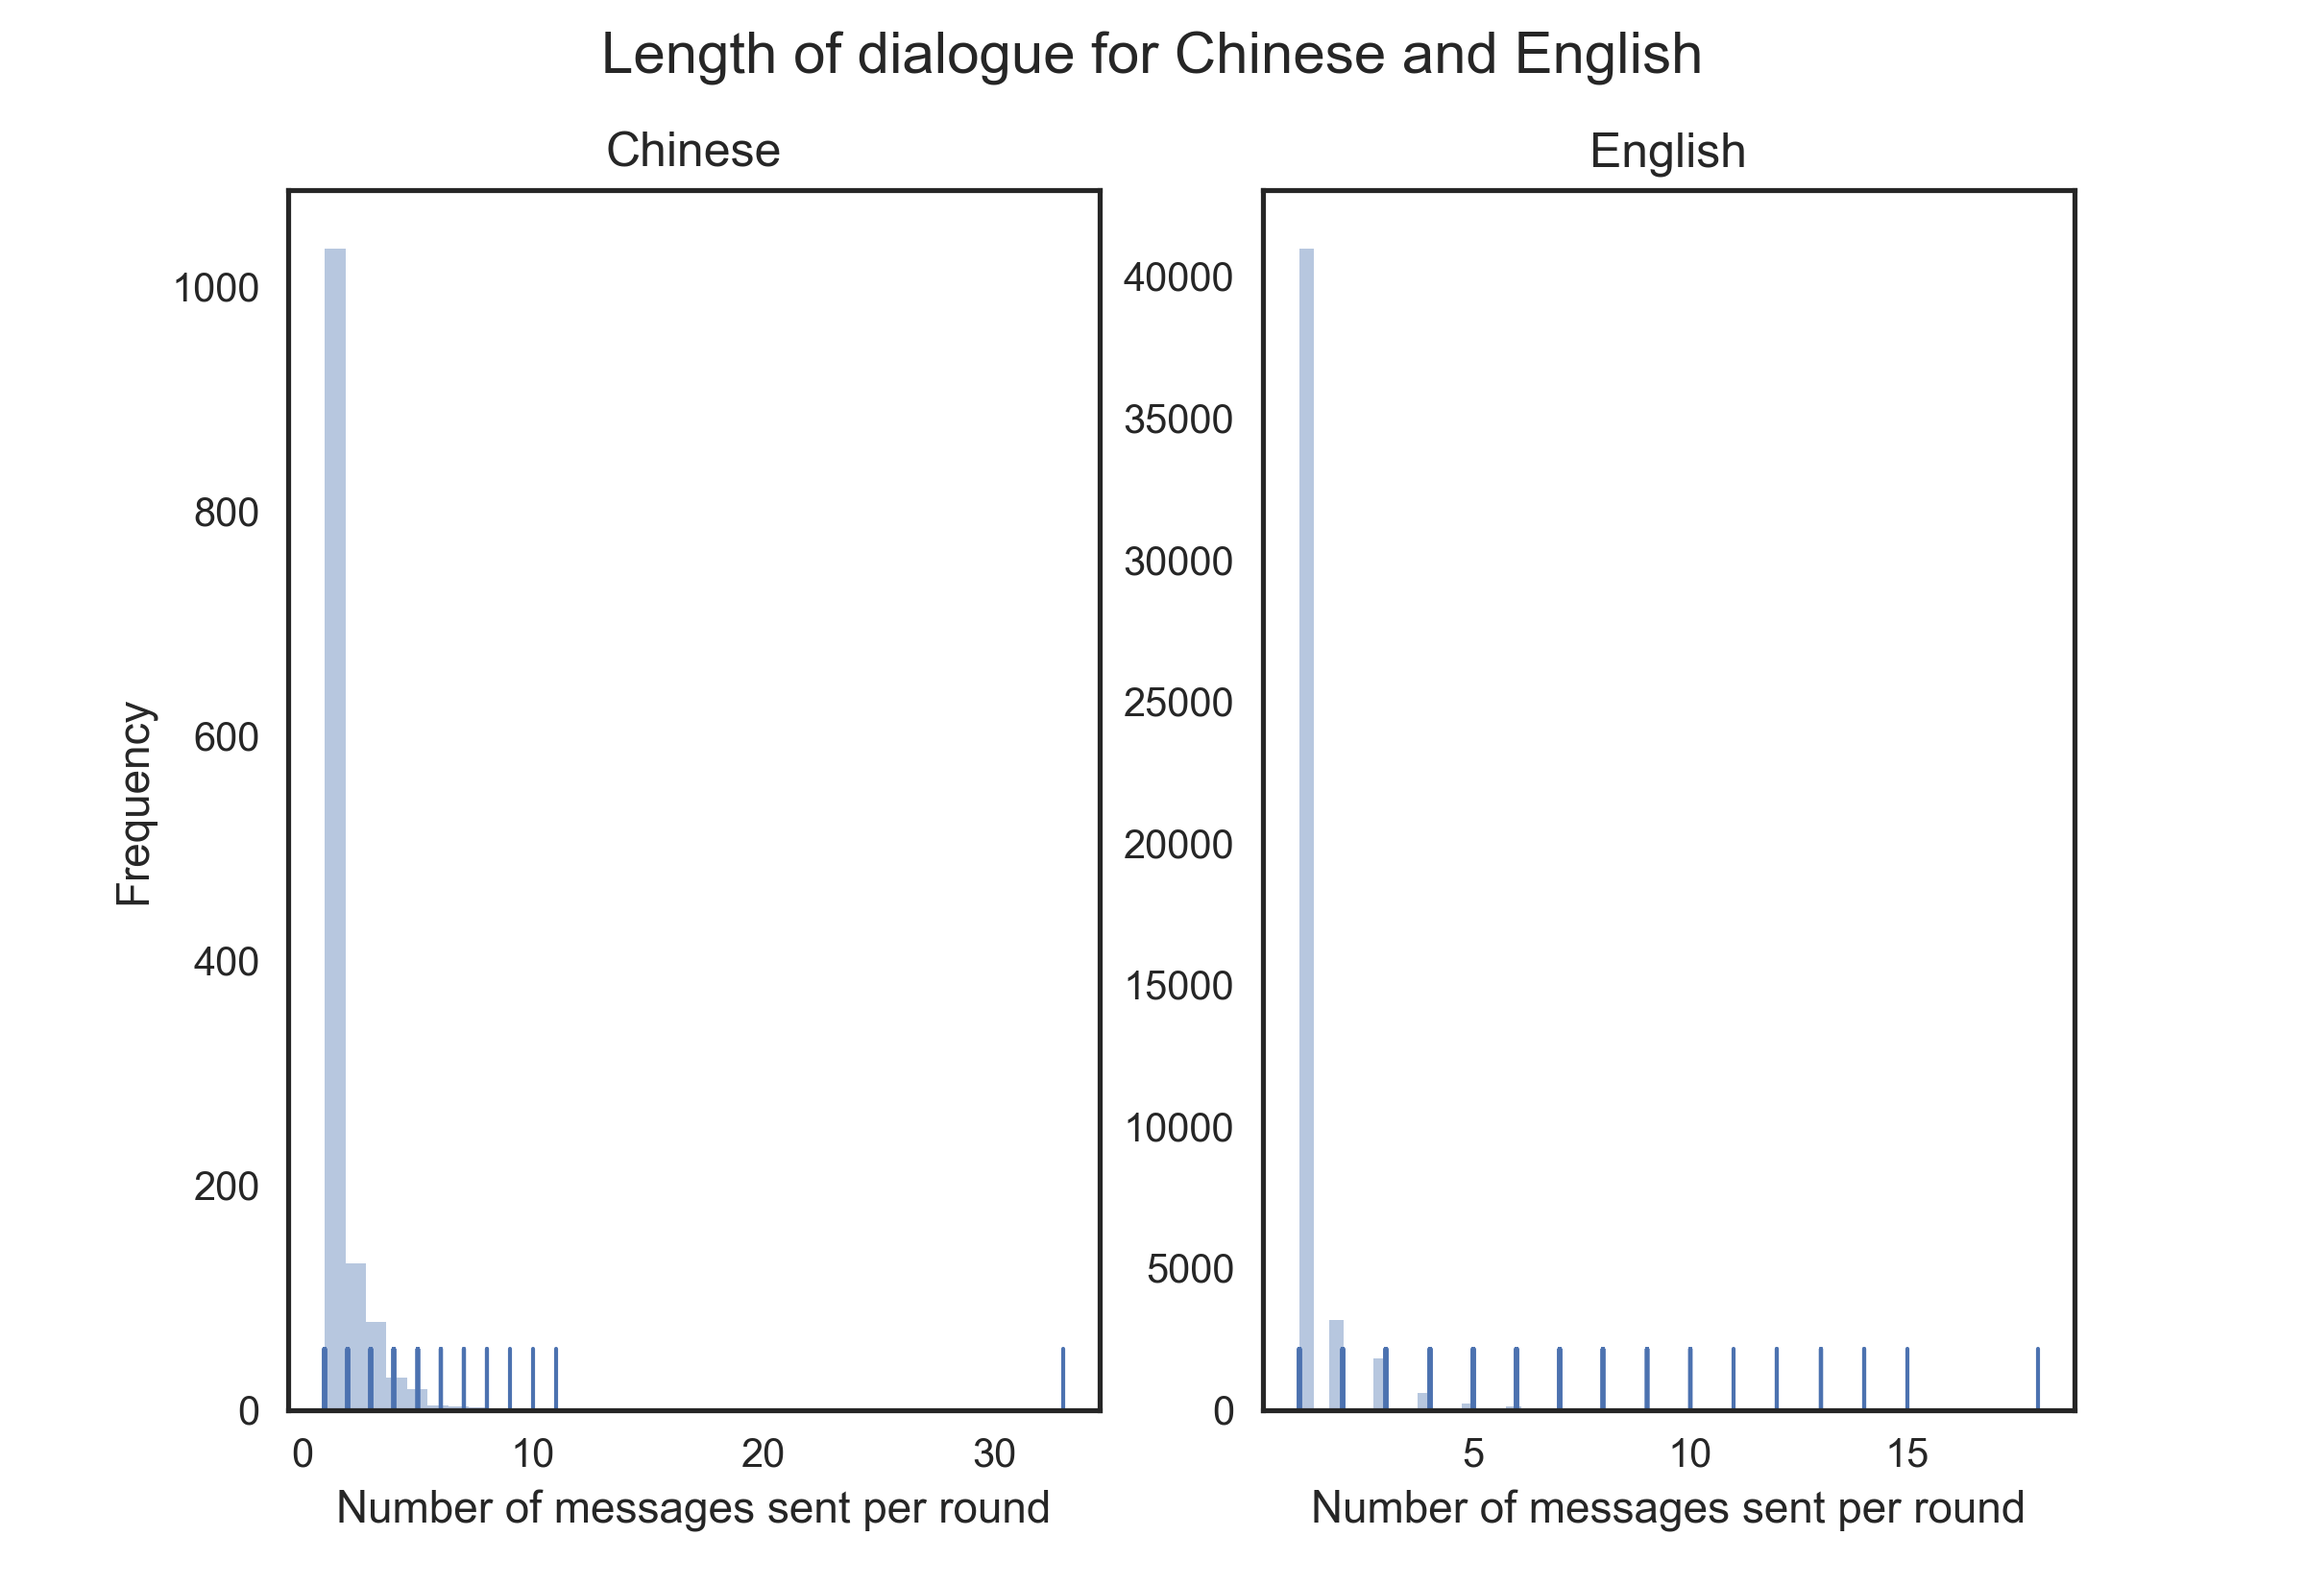
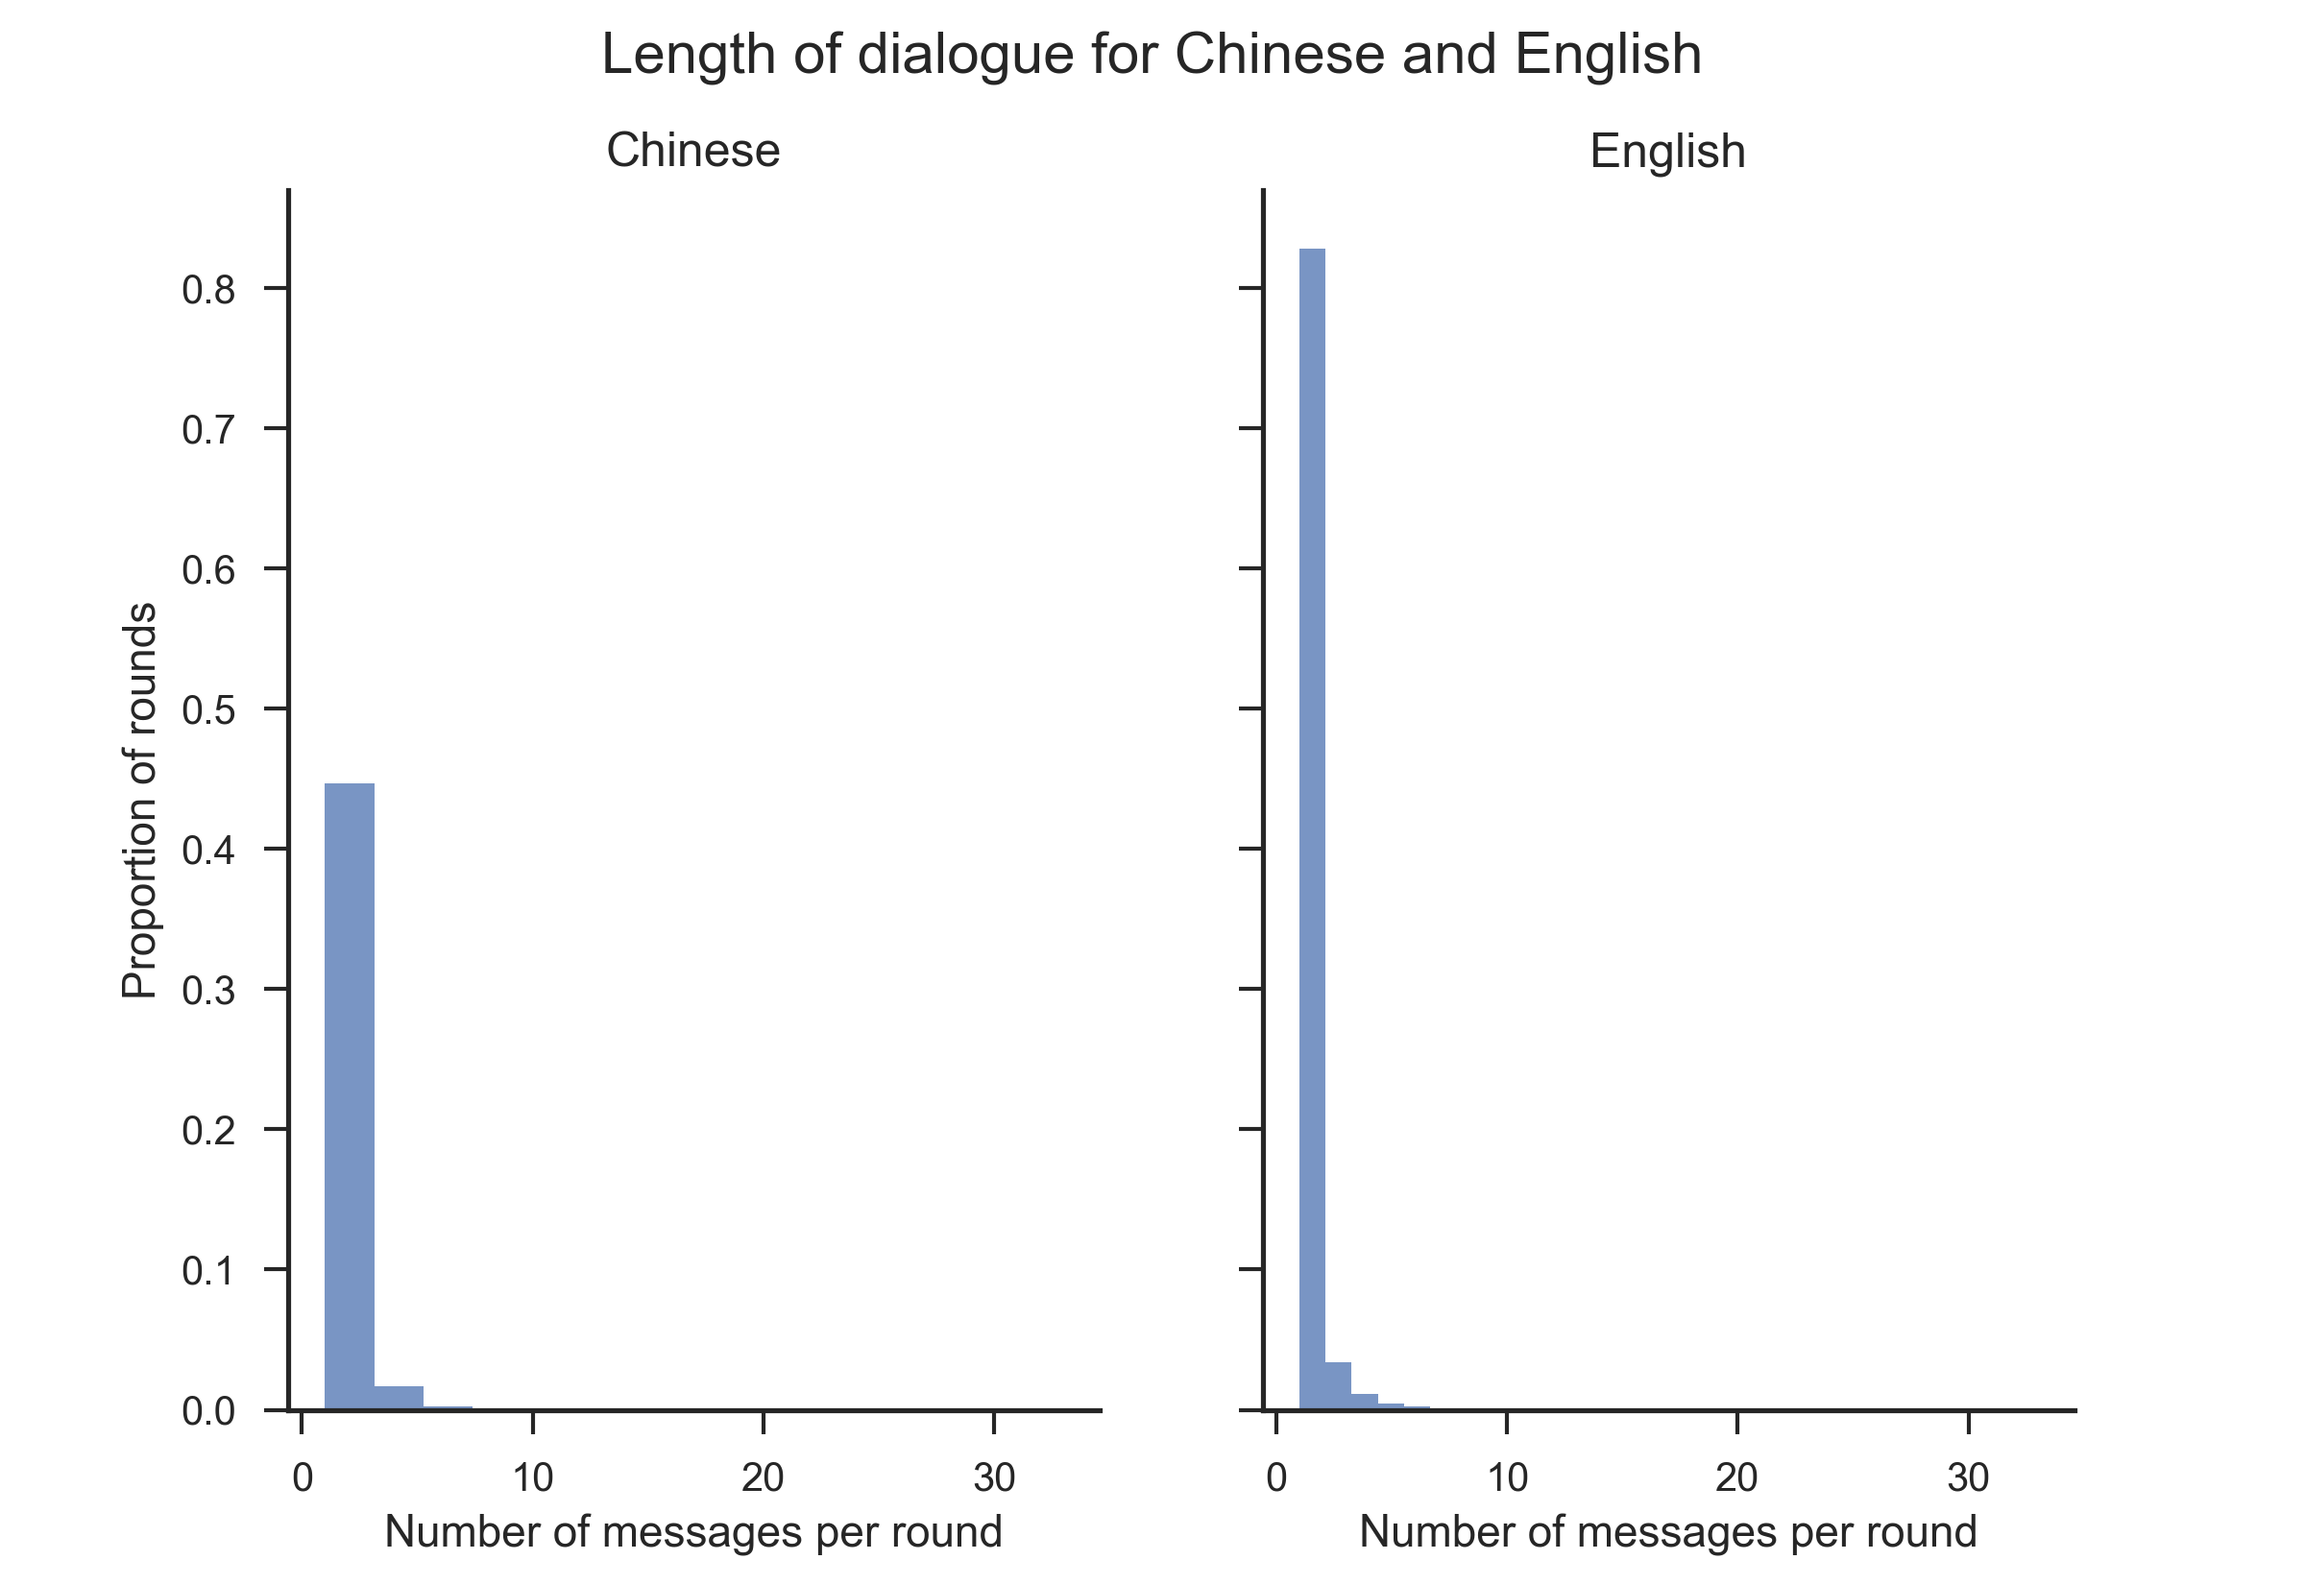
normalized histograms, other small changes

diff --git a/languageAnalysis/compare.py b/languageAnalysis/compare.py
@@ -1,6 +1,13 @@
 from utils import *
 import argparse
 
+def plot(a):
+    f_zh = 'data/{}_zh.csv'.format(a)
+    f_en = 'data/{}_en.csv'.format(a)
+    print 'Plotting for {}...'.format(a)
+    plot_csvs(f_zh, f_en, PLOTTYPE(a), 'plots/%s.png' % a,
+              ylabel=YLABEL(a), title=PLOTTITLE(a))
+
 def compare(attribute):
     '''
     Performs a full comparison across Chinese and English for a given
@@ -8,39 +15,33 @@ def compare(attribute):
     '''
     generate_csv(attribute, 'zh')
     generate_csv(attribute, 'en')
-    f_zh = 'data/{}_zh.csv'.format(attribute)
-    f_en = 'data/{}_en.csv'.format(attribute)
-    plot_csvs(f_zh, f_en, PLOTTYPE(attribute),
-                   'plots/%s_SEABORN.png' % attribute,
-                   ylabel=YLABEL(attribute),
-                   title=PLOTTITLE(attribute))
+    plot(attribute)
 
 if __name__ == '__main__':
     ATTRIBUTES = ['tokens', 'dialogue', 'superlative',
                   'comparative', 'negation', 'specificity']
     parser = argparse.ArgumentParser(description='compare Chinese and English')
-    parser.add_argument('-m', '--mode', help='compare, generate, or plot',
-                        default=None, choices=['C', 'G', 'P'])
-    parser.add_argument('-a', '--attribute', help='choose attributes', # nargs='+',
-                        default=None, choices=ATTRIBUTES)
-    parser.add_argument('-l','--language', help='choose language',
+    parser.add_argument('--mode', help='compare, generate, or plot',
+                        default=None, choices=['compare', 'csv', 'plot'])
+    parser.add_argument('--attributes', help='choose attributes',
+                        nargs='*', type=str, default=None,
+                        choices=ATTRIBUTES+['all'])
+    parser.add_argument('--language', help='choose language',
                         default=None, choices=['zh', 'en'])
     args = parser.parse_args()
 
-    if args.mode == 'C':
-        print 'Comparing {}...'.format(args.attribute)
-        compare(args.attribute)
+    attrs = ATTRIBUTES if args.attributes == ['all'] else args.attributes
+    if args.mode == 'compare':
+        for a in attrs:
+            print 'Comparing {}...'.format(a)
+            compare(a)
         print 'Done.'
-    elif args.mode == 'G':
-        print 'Generating csv...'
-        generate_csv(args.attribute, args.language)
+    elif args.mode == 'csv':
+        for a in attrs:
+            print 'Generating csv for {}...'.format(a)
+            generate_csv(a, args.language)
         print 'Done.'
-    elif args.mode == 'P':
-        f_zh = 'data/{}_zh.csv'.format(args.attribute)
-        f_en = 'data/{}_en.csv'.format(args.attribute)
-        print 'Plotting...'
-        plot_csvs(f_zh, f_en, PLOTTYPE(args.attribute),
-                       'plots/%s_SEABORN.png' % args.attribute,
-                       ylabel=YLABEL(args.attribute),
-                       title=PLOTTITLE(args.attribute))
+    elif args.mode == 'plot':
+        for a in attrs:
+            plot(a)
         print 'Done.'

diff --git a/languageAnalysis/plots.py b/languageAnalysis/plots.py
@@ -18,7 +18,7 @@ def show_stats(data, by, yvals, ax):
 def show_vals(ax):
     for p in ax.patches:
         height = p.get_height()
-        ax.text(p.get_x() + p.get_width()/2., height + 0.005,
+        ax.text(p.get_x() + p.get_width()/2., height,
                 '%.3f' % height, ha='center')
 
 ############################################################################
@@ -38,33 +38,40 @@ def boxplot(data, plot_file, ylabel, title='', strip=True):
     plt.gcf().clear()
 
 def histogram(data, plot_file, ylabel, title=''):
-    sns.set_style('white')
-    fig, (ax_zh, ax_en) = plt.subplots(ncols=2, sharey=False)
+    sns.set_style('ticks')
+    fig, (ax_zh, ax_en) = plt.subplots(ncols=2, sharex=True, sharey=True)
+    sns.despine()
 
     zh = data.loc[data['Language'] == 'Chinese']['Length'].tolist()
     en = data.loc[data['Language'] == 'English']['Length'].tolist()
+    # zh = data.loc[data['Language'] == 'Chinese']['tokens'].tolist()
+    # en = data.loc[data['Language'] == 'English']['tokens'].tolist()
 
-    sns.distplot(zh, kde=False, rug=True, ax=ax_zh)
-    sns.distplot(en, kde=False, rug=True, ax=ax_en)
+    sns.distplot(zh, bins=15, ax=ax_zh, kde=False, norm_hist=True, hist_kws={'alpha':0.75}) # , rug=True)
+    sns.distplot(en, bins=15, ax=ax_en, kde=False, norm_hist=True, hist_kws={'alpha':0.75}) # , rug=True)
 
     ax_zh.set_title('Chinese')
     ax_en.set_title('English')
-    ax_zh.set_xlabel('Number of messages sent per round')
-    ax_en.set_xlabel('Number of messages sent per round')
-    ax_zh.set_ylabel('Frequency')
+    ax_zh.set_xlabel('Number of messages per round')
+    ax_en.set_xlabel('Number of messages per round')
+    ax_zh.set_ylabel('Proportion of rounds')
+    # ax_zh.set_xlabel('Number of Jieba tokens')
+    # ax_en.set_xlabel('Number of NLTK tokens')
+    # ax_zh.set_ylabel('Proportion of messages')
 
     fig.suptitle(title)
-    plt.savefig(plot_file, transparent=True, dpi=300)
+    plt.savefig(plot_file, dpi=300)
     plt.gcf().clear()
 
 def barplot(data, plot_file, ylabel, title=''):
-    sns.set_style('white')
+    sns.set_style('ticks')
     ax = sns.barplot(x='Condition', y=data.columns.values[0], hue='Language',
                      order=['equal/far', 'further/split', 'closer/close'],
                      errcolor='#d1d1d1', data=data)
+    sns.despine()
     show_vals(ax)
     ax.set_ylabel(ylabel)
     ax.set_title(title)
-    plt.savefig(plot_file, transparent=True, dpi=300)
+    plt.savefig(plot_file, dpi=300) # transparent=True
     plt.legend(loc='upper left')
     plt.gcf().clear()

diff --git a/languageAnalysis/utils.py b/languageAnalysis/utils.py
@@ -49,6 +49,7 @@ def plot_csvs(zh_file, en_file, plot_type, plot_file, ylabel, title):
     en_df = pd.read_csv(en_file)
     df = zh_df.append(en_df)
     col_to_drop = df.columns[2] if plot_type == 'hist' else 'Message'
+    # col_to_drop = 'Message'
     plot_fun = plots.histogram if plot_type == 'hist' else plots.barplot
     df.drop(col_to_drop, axis=1, inplace=True)
     plot_fun(df, plot_file, ylabel, title)
@@ -73,6 +74,8 @@ def YLABEL(attribute):
         return 'Number of tokens per message'
     elif attribute == 'dialogue':
         return 'Number of messages exchanged per round'
+    elif attribute == 'specificity':
+        return 'Average value of specificity indicator'
     else:
         return 'Proportion of messages containing %s' % attribute
 
@@ -81,6 +84,8 @@ def PLOTTITLE(attribute):
         return 'Length of messages for Chinese and English'
     elif attribute == 'dialogue':
         return 'Length of dialogue for Chinese and English'
+    elif attribute == 'specificity':
+        return 'WordNet specificity for Chinese and English'
     else:
         return 'Usage of %s for Chinese and English' % attribute
 
